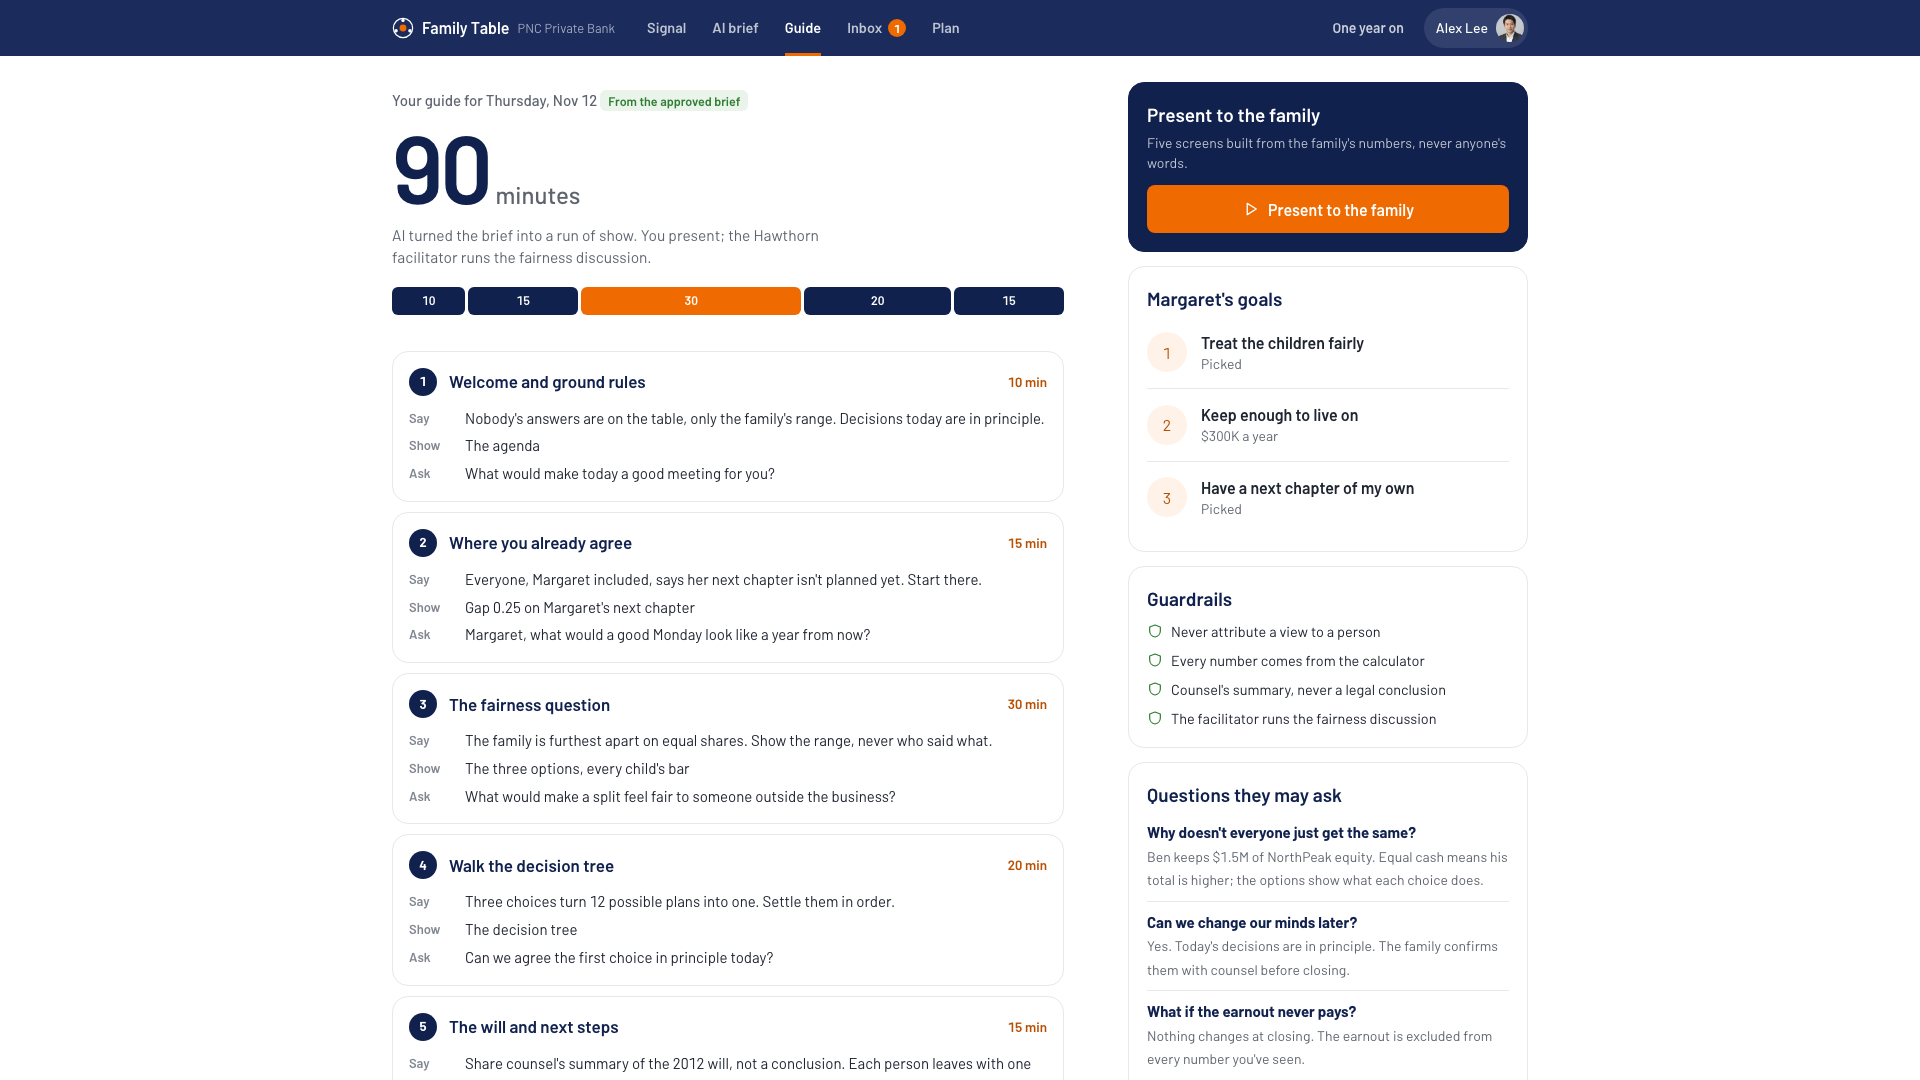
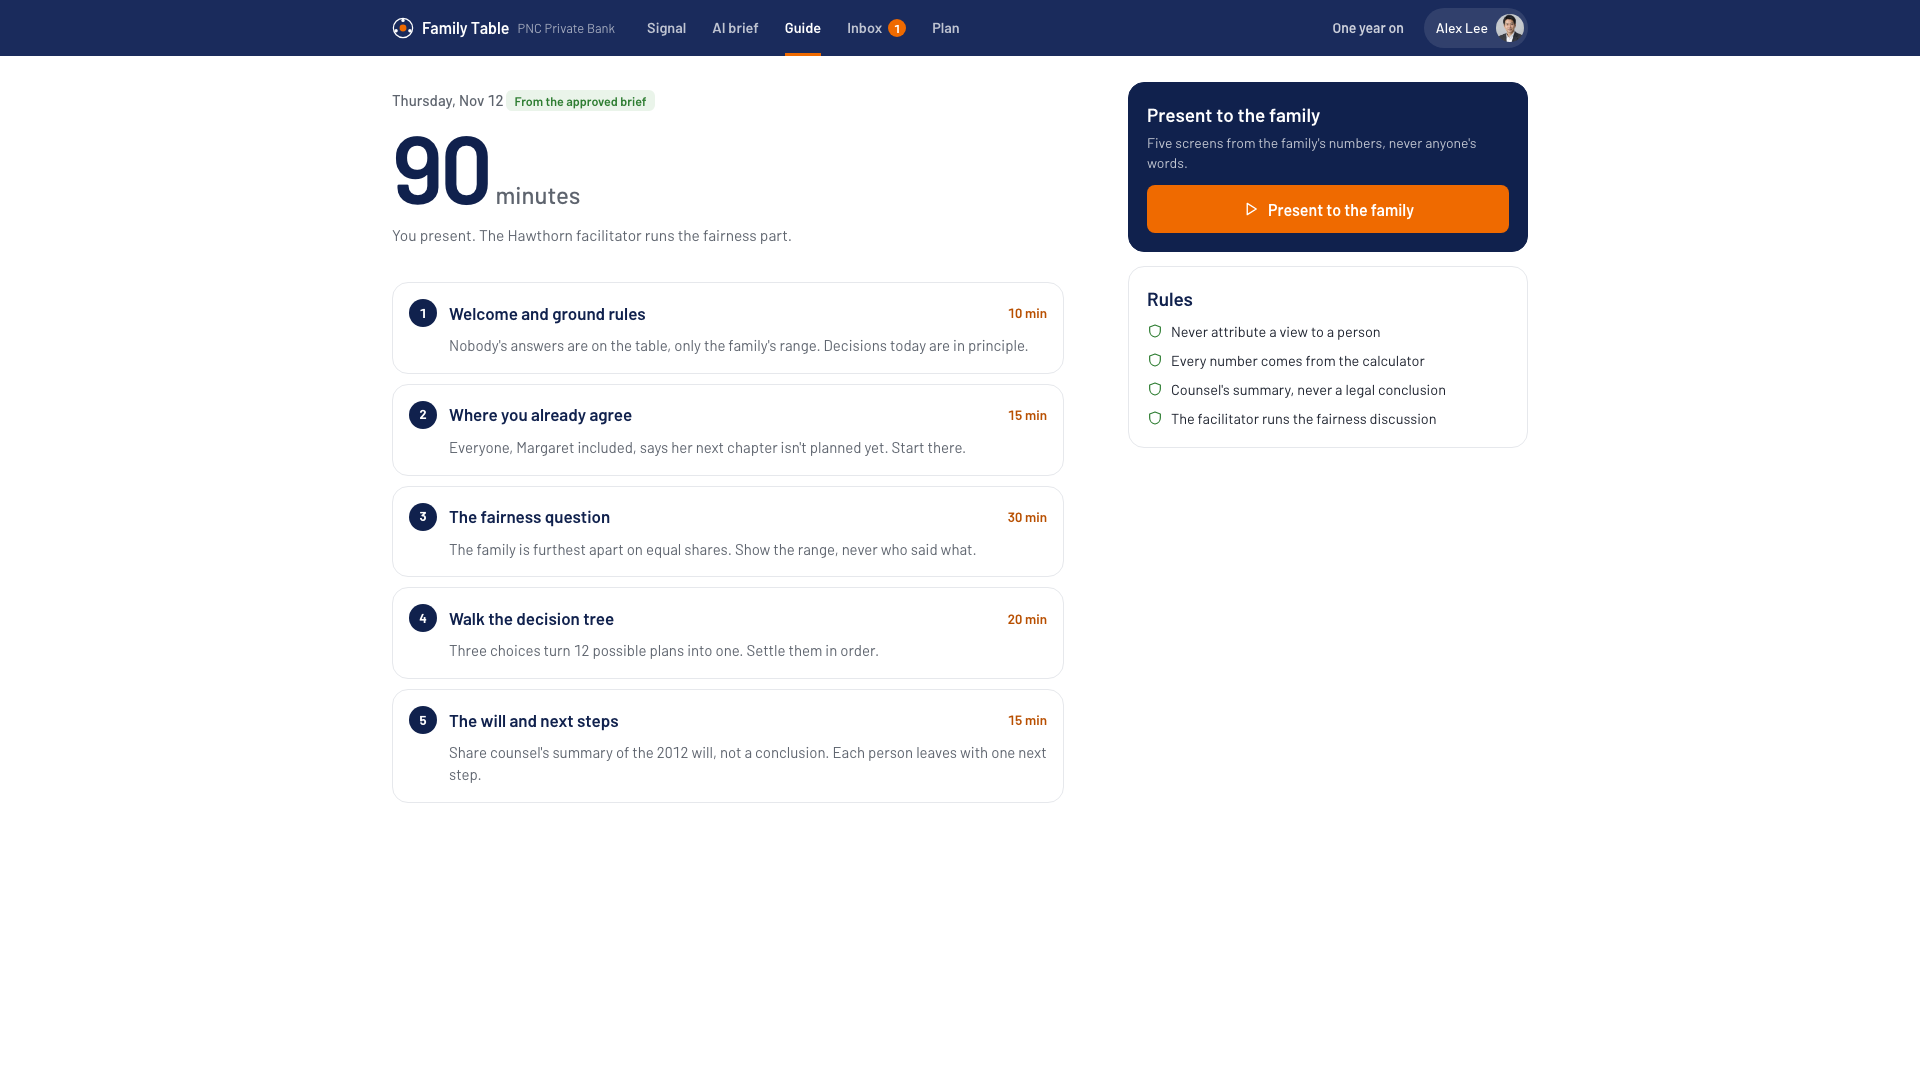
Guide: one line per part
The meeting guide drops to a date, 90 minutes, one sentence, five
parts with a single line each, the Present button and four rules. The
minute bar, the say/show/ask trio, Margaret's goals and the FAQ panel
are gone, with their data and CSS. Tour hint and PROJECT_CONTEXT
updated; both guide screenshots regenerated. launch.json serves the
prototype folder by relative path so it runs on any checkout.

diff --git a/prototype/data.js b/prototype/data.js
@@ -123,6 +123,37 @@ window.SEED = {
   // Before a family engages with PNC: a scenario preview. Ratios come from the Wilson deal so every preset is consistent
   // with the demo: net at closing = 27/48 of the offer, the children's gift = 12/27 of net, buyer equity kept by each
   // child who stays = 1.5/48 of the offer. Illustrative only.
+  // Document intake, before the goals. Margaret adds what she has, AI reads it, and every fact lands somewhere in the plan.
+  // The read is simulated and timed for the demo; the figures match the Wilson deal. feeds = where the document goes.
+  intake: {
+    docs: [
+      { name: "Financial statements, 2023 to 2025.pdf", type: "PDF", pages: 42, finding: "Earnings of about $6.9M a year, steady over three years.", feeds: ["live", "fair", "brief"], step: 1 },
+      { name: "NorthPeak letter of intent.pdf", type: "PDF", pages: 9, finding: "$48.0M offer, about 7 times earnings. $8.0M of it is an earnout.", feeds: ["fair", "live", "brief"], step: 1 },
+      { name: "Shareholder register.pdf", type: "PDF", pages: 4, finding: "Three children hold shares. Ben, COO, keeps $1.5M of NorthPeak equity after closing.", feeds: ["fair", "brief"], step: 2 },
+      { name: "Wilson Transport accounts", type: "PNC", pages: 0, src: "Pulled from PNC, nothing to upload", finding: "$3.5M outstanding on the credit line. Payroll shows one child in the business.", feeds: ["live", "brief"], step: 2 },
+      { name: "Margaret's will, 2012.pdf", type: "PDF", pages: 14, finding: "Leaves the shares equally to the three children. Silent on whether Ben's buyer equity counts.", feeds: ["fair", "brief", "spec"], step: 3, risk: "High risk" },
+      { name: "Key-person life policy, 2015.pdf", type: "PDF", pages: 6, finding: "Pays the company, not the family, and ends at closing.", feeds: ["brief", "spec"], step: 3, risk: "Medium risk" },
+      { name: "Shareholder buy-sell agreement, 2009", type: "Scan", pages: 18, finding: "Valuation formula fixed at 4× earnings in 2009. The offer implies about 7×.", feeds: ["brief", "spec"], step: 3, risk: "Medium risk" },
+      { name: "Personal tax returns, 2023 to 2025.pdf", type: "PDF", pages: 61, finding: "Household spending of about $300K a year. $120K a year already given to Pittsburgh causes.", feeds: ["live", "chapter", "brief"], step: 4 },
+    ],
+    // What AI does, in order. Each step marks the documents with the same step number as read.
+    steps: [
+      ["Took in 7 documents, pulled 1 from PNC", "Encrypted on the way in. Only Alex at PNC can open them; your family never sees them."],
+      ["Read the statements and the offer", "Earnings of $6.9M a year. $48.0M from NorthPeak, about 7 times earnings, with $8.0M paid later if targets are met."],
+      ["Worked out who owns what", "Three children hold shares. Ben stays with the buyer and keeps $1.5M of its equity. $3.5M of debt comes off the top."],
+      ["Checked the older paperwork", "The 2012 will is silent on Ben's buyer equity. The key-person policy ends at closing. The buy-sell formula is out of date."],
+      ["Worked out what you keep, and what you live on", "$27.0M at closing after debt, fees and tax. $12.0M of it could go to the children. Your returns show about $300K a year of spending."],
+      ["Connected it to your plan", "Three goals ranked and pre-filled, Alex's brief started, three documents routed to specialists. Nothing is decided yet."],
+    ],
+    // Where the documents go. Each row fills as its documents are read.
+    feeds: [
+      { id: "fair", icon: "scale", label: "Treat the children fairly", line: "Who holds what, and what the will says" },
+      { id: "live", icon: "home", label: "Keep enough to live on", line: "Earnings, debt, and what you spend now" },
+      { id: "chapter", icon: "compass", label: "Have a next chapter of my own", line: "What you already give, and to whom" },
+      { id: "brief", icon: "brief", label: "Alex's brief", line: "Every fact, with its source, for your advisor" },
+      { id: "spec", icon: "users", label: "PNC specialists", line: "Paperwork that needs an attorney or an insurer" },
+    ],
+  },
   preview: {
     netRatio: 27 / 48, giftShare: 12 / 27, equityRatio: 1.5 / 48,
     // Documents an owner can add before talking to anyone. The read is simulated; the figures match the Wilson deal.
@@ -170,20 +201,15 @@ window.SEED = {
     { id: "earn", q: "If the $8.0M earnout pays out later, where does it go?", opts: [["parents", "Margaret and Tom keep it", "Their cushion grows"], ["half", "Half to the children", "$4.0M, split equally"]] },
   ],
 
-  // Alex's meeting guide for Nov 12, drafted by AI from the approved brief. Minutes add up to 90.
+  // Alex's meeting guide for Nov 12, drafted by AI from the approved brief: one line per part. Minutes add up to 90.
   guide: [
-    { min: 10, title: "Welcome and ground rules", say: "Nobody's answers are on the table, only the family's range. Decisions today are in principle.", show: "The agenda", ask: "What would make today a good meeting for you?" },
-    { min: 15, title: "Where you already agree", say: "Everyone, Margaret included, says her next chapter isn't planned yet. Start there.", show: "Gap 0.25 on Margaret's next chapter", ask: "Margaret, what would a good Monday look like a year from now?" },
-    { min: 30, title: "The fairness question", say: "The family is furthest apart on equal shares. Show the range, never who said what.", show: "The three options, every child's bar", ask: "What would make a split feel fair to someone outside the business?" },
-    { min: 20, title: "Walk the decision tree", say: "Three choices turn 12 possible plans into one. Settle them in order.", show: "The decision tree", ask: "Can we agree the first choice in principle today?" },
-    { min: 15, title: "The will and next steps", say: "Share counsel's summary of the 2012 will, not a conclusion. Each person leaves with one next step.", show: "Everyone's next step", ask: "Who needs a follow-up call with me this week?" },
+    { min: 10, title: "Welcome and ground rules", say: "Nobody's answers are on the table, only the family's range. Decisions today are in principle." },
+    { min: 15, title: "Where you already agree", say: "Everyone, Margaret included, says her next chapter isn't planned yet. Start there." },
+    { min: 30, title: "The fairness question", say: "The family is furthest apart on equal shares. Show the range, never who said what." },
+    { min: 20, title: "Walk the decision tree", say: "Three choices turn 12 possible plans into one. Settle them in order." },
+    { min: 15, title: "The will and next steps", say: "Share counsel's summary of the 2012 will, not a conclusion. Each person leaves with one next step." },
   ],
   guardrails: ["Never attribute a view to a person", "Every number comes from the calculator", "Counsel's summary, never a legal conclusion", "The facilitator runs the fairness discussion"],
-  faqs: [
-    ["Why doesn't everyone just get the same?", "Ben keeps $1.5M of NorthPeak equity. Equal cash means his total is higher; the options show what each choice does."],
-    ["Can we change our minds later?", "Yes. Today's decisions are in principle. The family confirms them with counsel before closing."],
-    ["What if the earnout never pays?", "Nothing changes at closing. The earnout is excluded from every number you've seen."],
-  ],
 
   // One year on: where each dollar of the $27.0M sits, by PNC service. Totals match the buckets and the Balanced split.
   products: [

diff --git a/prototype/app.js b/prototype/app.js
@@ -242,7 +242,7 @@
     { side: "Advisor", stage: "Align", route: "advisor/align", title: "The AI reads. Alex decides.", noScroll: true,
       hint: "Four private check-ins become one finding: the widest gap is fairness. Approve the brief.", target: '[data-act="approve"]', done: () => state.approved },
     { side: "Advisor", stage: "Align", route: "advisor/guide", title: "Alex walks in with a guide",
-      hint: "AI turns the brief into a 90-minute run of show, with what to say, show and ask. Tap Present to the family.", target: '[data-act="present-open"]', done: () => state.presented },
+      hint: "AI turns the brief into a 90-minute run of show, one line per part. Tap Present to the family.", target: '[data-act="present-open"]', done: () => state.presented },
     { side: "Family", stage: "Allocate", route: "me/sam/options", title: "Sam sees his number, then votes",
       hint: "From Sam's check-in, AI suggests Equal. Each option shows every child's share, and votes stay private. Cast Sam's vote, or change it first.", target: '[data-act="vote"]', done: () => !!state.votes.sam },
     { side: "Family", stage: "Allocate", route: "me/sam/decide", title: "Sam firms up the decision",
@@ -728,22 +728,16 @@
 
   // ---------- advisor: meeting guide and presenter mode ----------
   function advGuide() {
-    const total = S.guide.reduce((s, g) => s + g.min, 0), sent = Object.keys(state.pathSent).filter(k => state.pathSent[k]);
-    const G = Object.fromEntries(S.goals.map(g => [g.id, g]));
+    const total = S.guide.reduce((s, g) => s + g.min, 0);
     return `<div class="page"><div class="cols"><div class="col-main">
-      <section class="hero"><div class="label">Your guide for Thursday, Nov 12 ${state.approved ? `<span class="badge g">From the approved brief</span>` : `<span class="badge p">Draft</span>`}</div>
+      <section class="hero"><div class="label">Thursday, Nov 12 ${state.approved ? `<span class="badge g">From the approved brief</span>` : `<span class="badge p">Draft</span>`}</div>
         <div class="value huge">${total}<span class="unit">minutes</span></div>
-        <div class="caption">AI turned the brief into a run of show. You present; the Hawthorn facilitator runs the fairness discussion.</div>
-        <div class="ros" aria-hidden="true">${S.guide.map((g, i) => `<i style="flex:${g.min}" class="${i === 2 ? "hot" : ""}"><span>${g.min}</span></i>`).join("")}</div></section>
-      <section class="section"><ol class="guide">${S.guide.map((g, i) => `<li class="gd"><div class="gd-h"><span class="gd-n">${i + 1}</span><b>${g.title}</b><span class="gd-m">${g.min} min</span></div>
-        <dl><dt>Say</dt><dd>${g.say}</dd><dt>Show</dt><dd>${g.show}</dd><dt>Ask</dt><dd>${g.ask}</dd></dl></li>`).join("")}</ol></section>
+        <div class="caption">You present. The Hawthorn facilitator runs the fairness part.</div></section>
+      <section class="section"><ol class="guide">${S.guide.map((g, i) => `<li class="gd"><div class="gd-h"><span class="gd-n">${i + 1}</span><b>${g.title}</b><span class="gd-m">${g.min} min</span></div><p>${g.say}</p></li>`).join("")}</ol></section>
       </div><aside class="col-side">
-        <section class="panel present-panel"><div class="section-head"><h2>Present to the family</h2></div><p class="small muted">Five screens built from the family's numbers, never anyone's words.</p>
+        <section class="panel present-panel"><div class="section-head"><h2>Present to the family</h2></div><p class="small muted">Five screens from the family's numbers, never anyone's words.</p>
           <button class="btn block" data-act="present-open" style="margin-top:12px">${ic("play", 18)} Present to the family</button></section>
-        <section class="panel"><div class="section-head"><h2>Margaret's goals</h2></div><div class="rows">${state.goals.map((id, i) => `<div class="row"><span class="ic o">${i + 1}</span><span class="tx"><b>${G[id].label}</b><span>${id === "fair" && state.fairMeans ? "Fair means: " + OPT[state.fairMeans].label : id === "live" ? `$${state.spend}K a year` : id === "give" ? money(state.foundation) + " to a foundation" : "Picked"}</span></span></div>`).join("")}</div>
-          ${sent.length ? `<p class="small muted" style="margin-top:8px">Decision paths sent to you: ${sent.map(k => P[k].short).join(", ")}.</p>` : ""}</section>
-        <section class="panel"><div class="section-head"><h2>Guardrails</h2></div><ul class="guard">${S.guardrails.map(g => `<li>${ic("shield", 16)}${g}</li>`).join("")}</ul></section>
-        <section class="panel"><div class="section-head"><h2>Questions they may ask</h2></div>${S.faqs.map(([q, a]) => `<div class="faq"><b>${q}</b><span>${a}</span></div>`).join("")}</section>
+        <section class="panel"><div class="section-head"><h2>Rules</h2></div><ul class="guard">${S.guardrails.map(g => `<li>${ic("shield", 16)}${g}</li>`).join("")}</ul></section>
       </aside></div></div>`;
   }
   function presentDeck() {

diff --git a/prototype/styles.css b/prototype/styles.css
@@ -652,28 +652,19 @@ body.touring main { padding-bottom: 230px; }
 .outcome .btn { margin-top: 14px; }
 
 /* ---------- meeting guide and presenter ---------- */
-.ros { display: flex; gap: 3px; margin-top: 18px; }
-.ros i { height: 28px; border-radius: 6px; background: var(--navy); color: #fff; font-style: normal; font-size: 12.5px; font-weight: 600; display: grid; place-items: center; }
-.ros i.hot { background: var(--orange); }
 .guide { list-style: none; margin: 0; padding: 0; display: grid; gap: 10px; }
 .gd { padding: 16px; border-radius: var(--r-lg); border: 1px solid var(--line); }
 .gd-h { display: flex; align-items: center; gap: 12px; }
 .gd-n { width: 28px; height: 28px; border-radius: 50%; background: var(--navy); color: #fff; font-size: 13px; font-weight: 700; display: grid; place-items: center; flex: none; }
 .gd-h b { flex: 1; font-size: 17px; font-weight: 600; color: var(--navy); }
 .gd-m { font-size: 13.5px; font-weight: 600; color: var(--orange-700); white-space: nowrap; }
-.gd dl { display: grid; grid-template-columns: 44px minmax(0, 1fr); gap: 6px 12px; margin: 12px 0 0; font-size: 15px; }
-.gd dt { font-size: 13px; font-weight: 600; color: var(--faint); padding-top: 1px; }
-.gd dd { margin: 0; }
+.gd p { margin: 8px 0 0 40px; font-size: 15px; color: var(--sub); }
 .present-panel { background: var(--navy); border-color: var(--navy); color: #fff; }
 .present-panel h2 { color: #fff !important; }
 .present-panel .muted { color: rgba(255,255,255,.75); }
 .guard { list-style: none; margin: 8px 0 0; padding: 0; display: grid; gap: 8px; font-size: 14.5px; }
 .guard li { display: flex; gap: 8px; align-items: flex-start; }
 .guard svg { color: var(--pos); flex: none; margin-top: 2px; }
-.faq { padding: 10px 0; border-bottom: 1px solid var(--line); }
-.faq:last-child { border-bottom: 0; }
-.faq b { display: block; font-size: 15px; color: var(--navy); }
-.faq span { font-size: 14px; color: var(--sub); }
 .present { position: fixed; inset: 0; z-index: 60; background: var(--navy) var(--pattern); color: #fff; display: flex; flex-direction: column; padding: 0 16px; animation: fade .25s; }
 .pz-top { display: flex; align-items: center; gap: 12px; height: 60px; max-width: 1100px; width: 100%; margin: 0 auto; }
 .pz-top .brand { margin-right: auto; }
@@ -732,7 +723,7 @@ ul.pz-list { list-style: none; padding: 0; }
 }
 @media (prefers-reduced-motion: no-preference) {
   .anim .goal, .anim .gd, .anim .pv-card, .anim .dt-node, .anim .pb { animation: ft-rise .45s cubic-bezier(.2,.8,.2,1) both; animation-delay: calc(var(--i, 0) * 50ms + 160ms); }
-  .anim .ros i, .anim .pb-bar i { animation: ft-grow .7s cubic-bezier(.2,.8,.2,1) both; transform-origin: left center; }
+  .anim .pb-bar i { animation: ft-grow .7s cubic-bezier(.2,.8,.2,1) both; transform-origin: left center; }
   .pz-slide > * { animation: ft-rise .45s cubic-bezier(.2,.8,.2,1) both; }
   .pz-slide > :nth-child(2) { animation-delay: .1s; } .pz-slide > :nth-child(n+3) { animation-delay: .2s; }
 }

diff --git a/PROJECT_CONTEXT.md b/PROJECT_CONTEXT.md
@@ -240,7 +240,7 @@ A gap of 0.75 or more recommends a facilitator.
 - `#/preview`: before anyone engages PNC. Presets (like the Wilsons; two children both in it; four children, two in it) or sliders (offer, children, children in the business) show the likely amount at closing, live on / give / invest, two split scenarios, "without a plan vs with Family Table", and the first month. Ratios come from the Wilson deal (net 27/48, gift 12/27, equity 1.5/48 per child who stays).
 - `#/me/margaret/setup`: onboarding. Confirm the facts PNC holds, pick up to three goals in order, and sharpen each (what fair means, yearly spending → years covered, next-chapter ideas, foundation amount, keep the name). "Save my goals and invite the family". Margaret's "fair means" feeds the AI brief.
 - `#/me/<id>/decide`: the decision tree. Three choices (does Ben's equity count; paid at closing or through a 10-year trust; where half the earnout goes) narrow 12 possible plans to 1, showing every child's number; the path can be sent to Alex.
-- `#/advisor/guide`: Alex's 90-minute meeting guide (say, show, ask per segment), Margaret's goals, guardrails, likely questions, and **Present to the family**: a 5-screen presenter mode built from numbers, never names.
+- `#/advisor/guide`: Alex's 90-minute meeting guide (five parts, one line each), four rules, and **Present to the family**: a 5-screen presenter mode built from numbers, never names.
 - `#/year-one` also shows **what the money does now**: the $27.0M across six PNC services (income portfolio, cash and credit line, next-gen accounts, Ben's account and equity plan, long-term portfolio, family foundation), plus services with no balance.
 - `?tour` resets and opens the splash; its button runs 10 steps: Signal (Alex), Margaret previews, Margaret sets goals and invites, Claire shares, the AI brief (Alex approves), Alex's guide and presenter, Sam votes, Sam's decision tree, Alex sends the AI-drafted reply, one year on. `?reset` clears state.
 - **Voting:** three options (Equal, Balanced, Equity counted). Each vote is private; the tally shows counts only, once `MIN_GROUP` (3) have voted; advisory input to Nov 12; changeable until then. Seeded: Margaret and Ben have voted.
